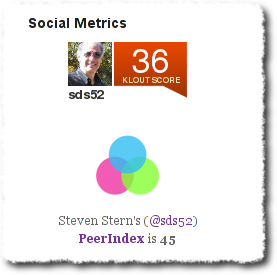
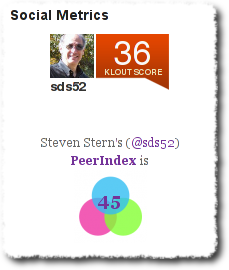
checkin version 0.6
git-svn-id: https://plugins.svn.wordpress.org/social-media-metrics/trunk@372182 b8457f37-d9ea-0310-8a92-e5e31aec5664

diff --git a/social-media-metrics.php b/social-media-metrics.php
@@ -4,7 +4,7 @@ Plugin Name: Social Media Metrics
 Plugin URI: http://wordpress.org/extend/plugins/social-media-metrics/
 Description: Displays scores from <a href="http://klout.com">Klout<a> and <a href="http://peerindex.net">PeerIndex<a/> in widget.
 Author: Steven Stern
-Version: 0.5
+Version: 0.6
 Author URI: http://mywordpress.sterndata.com/
 */
 /*  Copyright 2011 Steven D. Stern  (email : steve@sterndata.com)
@@ -97,11 +97,19 @@ function block_peerIndex($twitter_id) {
     	}
 
     if (strlen($json['peerindex'])!=0) {    
-      echo "<p style=\"text-align:center;\">";
-      echo "<a href='".$json['url']."'><img src='http://a0.twimg.com/profile_images/1162568983/peerindex_bigger-1_bigger.png'	border=0 width=73 height=73 align=center style=\"margin:5px;border:none;\"></a>\n";
-      echo  "<br>",$json['name'],"'s (<a href='http://twitter.com/".$json['twitter'],"'>@",$json['slug'],"</a>) <a href='http://peerindex.net/".$json['slug']."'><b>PeerIndex</b></a> is ";
-      echo "<b>",$json['peerindex'],"</b><br>\n";    
-      echo "</p>\n";
+      echo "<div style=\"text-align:center;\">";
+      echo  "<br>",$json['name'],"'s (<a href='http://twitter.com/".$json['twitter'],"'>@",$json['slug'],"</a>) <a href='http://peerindex.net/".$json['slug']."'><b>PeerIndex</b></a> is";
+      echo '<div style="margin:0px auto;;background-image:  url(http://a0.twimg.com/profile_images/1162568983/peerindex_bigger-1_bigger.png); background-repeat: no-repeat;height: 73px; width: 73px;"><div style="font-color:#000000;font-size:150%;position: relative; height: auto; width: auto; top: 20px;" >';
+      echo "\n";
+      echo "<a href='".$json['url']."'>";
+      echo "<b>",$json['peerindex'],"</b></a><br>\n";
+      echo "</div></div>\n";
+      echo "</div>\n";
+ //     
+ //     echo "<a href='".$json['url']."'><img src='http://a0.twimg.com/profile_images/1162568983/peerindex_bigger-1_bigger.png'	border=0 width=73 height=73 align=center style=\"margin:5px;border:none;\"></a>\n";
+ //     echo  "<br>",$json['name'],"'s (<a href='http://twitter.com/".$json['twitter'],"'>@",$json['slug'],"</a>) <a href='http://peerindex.net/".$json['slug']."'><b>PeerIndex</b></a> is ";
+ //     echo "<b>",$json['peerindex'],"</b><br>\n";    
+ //     echo "</p>\n";
       return true;
     }
 }
